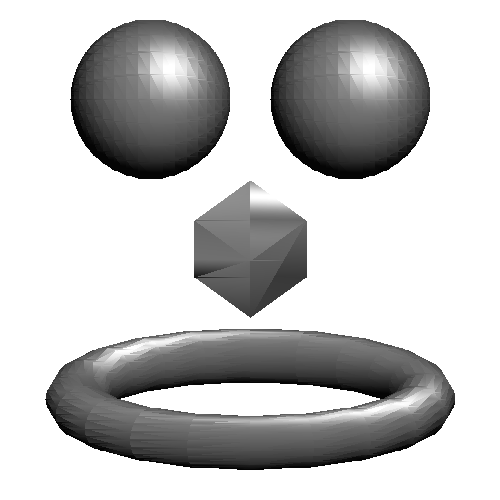
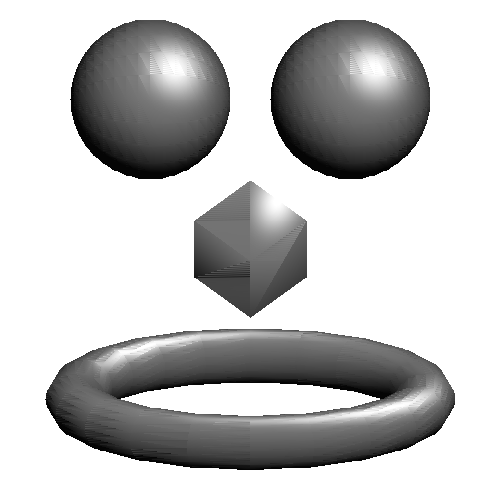
phong sorta works

diff --git a/draw.c b/draw.c
@@ -88,16 +88,18 @@ void draw_scanline( double x0, double z0, double x1, double z1, int y, double of
     }
 
     double mn[3];
+    double n[3];
     if (type == PHONG) {
         mn[0] = dist > 0 ? (n1[0] - n0[0]) / dist : 0;
         mn[1] = dist > 0 ? (n1[1] - n0[1]) / dist : 0;
         mn[2] = dist > 0 ? (n1[2] - n0[2]) / dist : 0;
+        copy_array(n, n0);
     }
 
     color c = c0;
     while (x < ceil(x1)) {
-        if (type == PHONG) c = get_lighting(n0, view, ambient, light, reflect);
-
+        if (type == PHONG) c = get_lighting(n, view, ambient, light, reflect);
+        
         plot(s, zb, c, x, y, z);
 
         z += mz;
@@ -107,7 +109,7 @@ void draw_scanline( double x0, double z0, double x1, double z1, int y, double of
             c = calc_color(c0, mc, x - ceil(x0));
         }
         else if (type == PHONG) {
-            add_norm(n0, mn);
+            add_norm(n, mn);
         }
     }
 }
